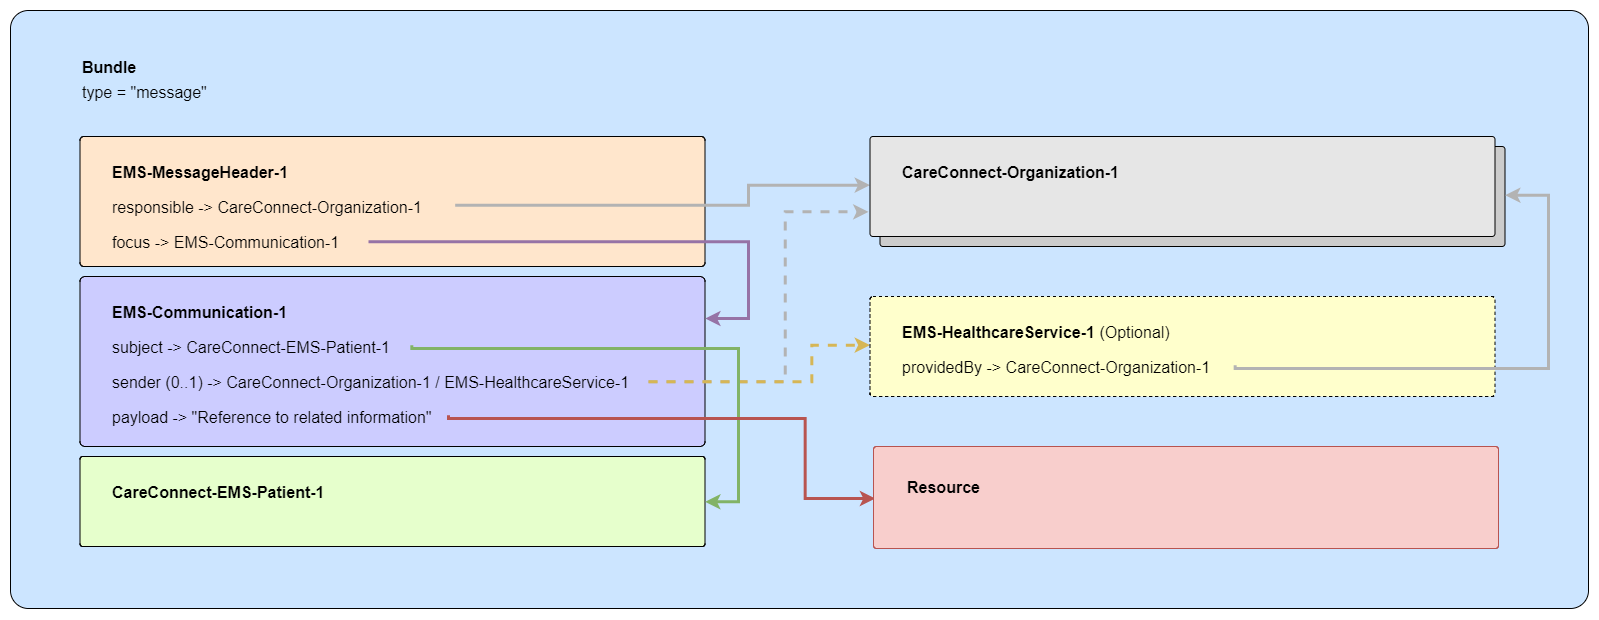
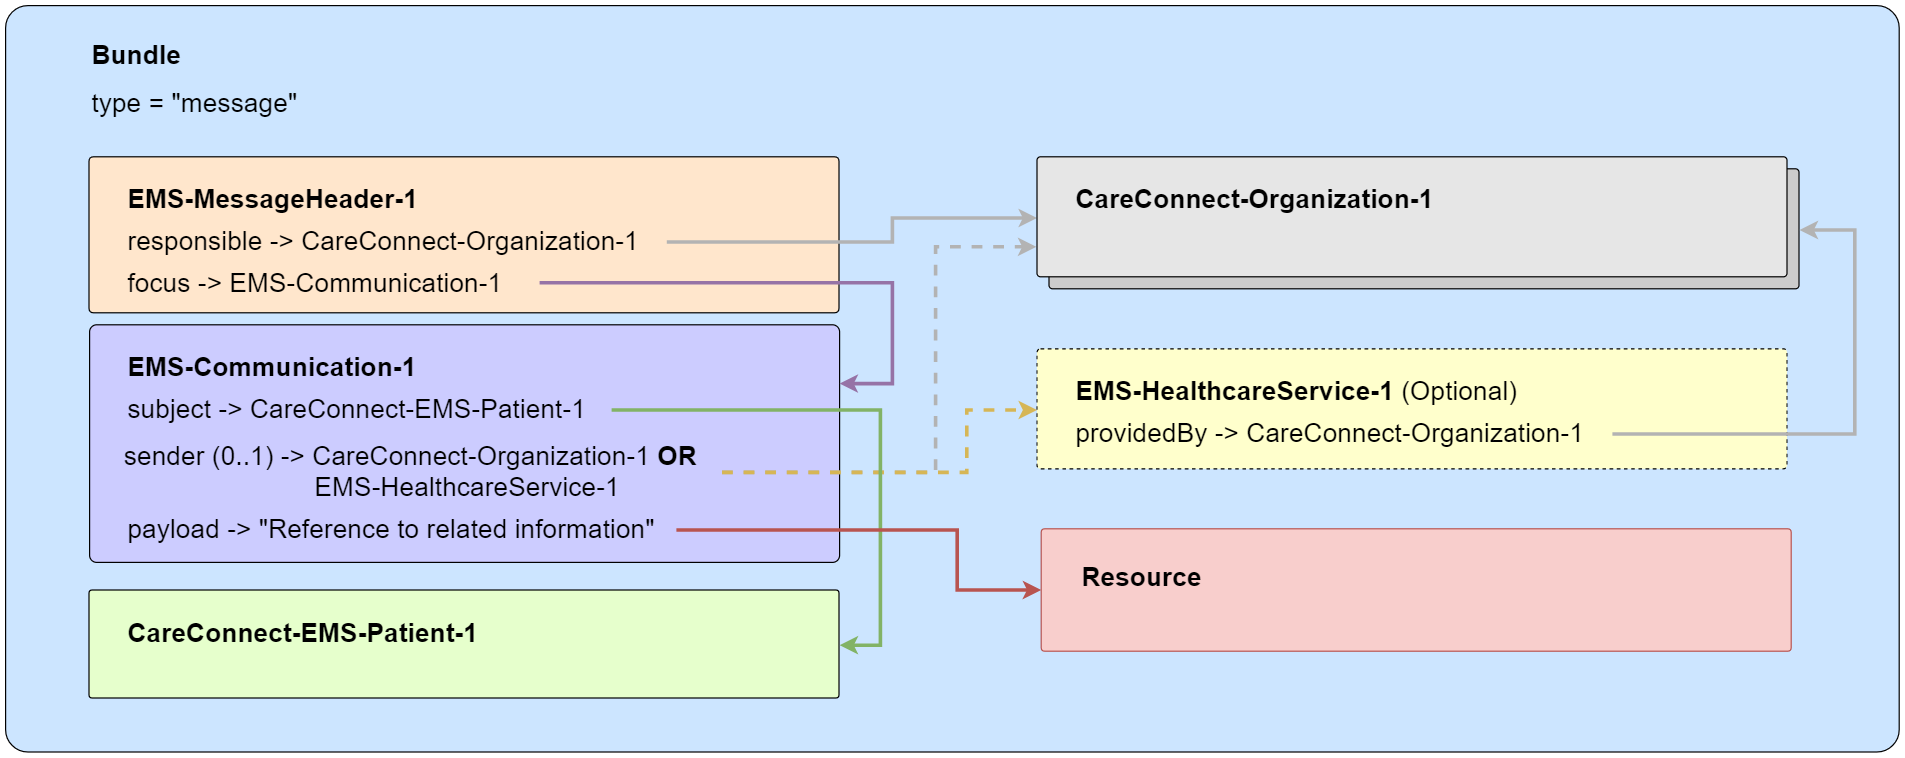
Updated Message Header Bundle diagram with larger font and increased the image with to 100 per cent.

Changed region(s): [[0.0, 0.0, 1.0, 1.0]]

diff --git a/css/customstyles.css b/css/customstyles.css
@@ -922,13 +922,6 @@ span.soft {
 }
 
 
-@media only screen and (min-width: 900px), @media only screen and (min-device-width: 900px) {
-    .col-md-9 img {
-        max-width: 700px;
-        max-height: 700px;
-    }
-}
-
 *:hover > .anchorjs-link {
     transition: color .25s linear;
     text-decoration: none;
